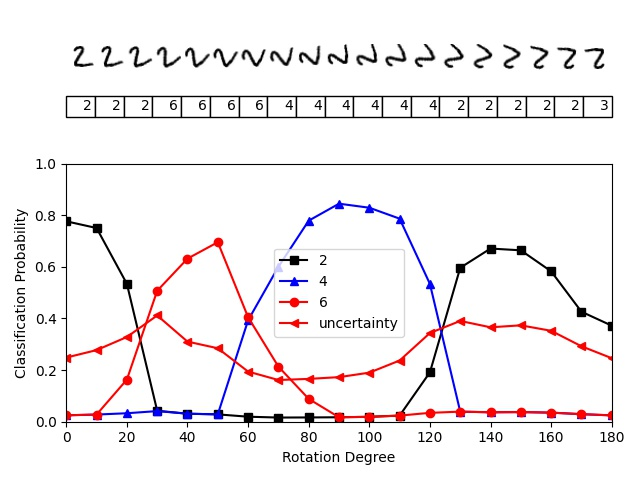
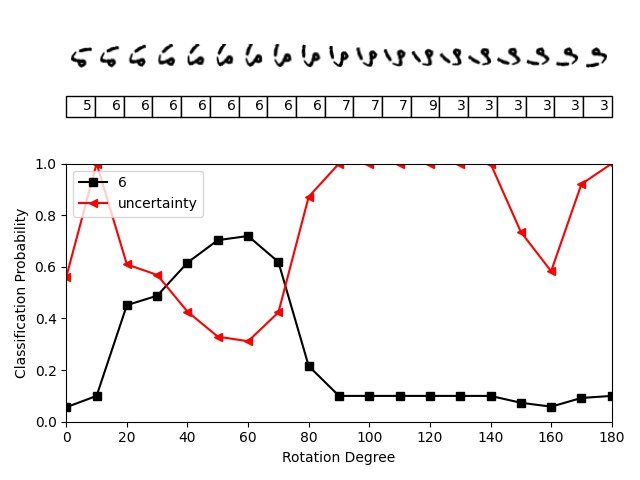
after 10 epocs

diff --git a/main.py b/main.py
@@ -14,6 +14,7 @@ from PIL import Image
 
 from helpers import get_device, rotate_img, one_hot_embedding
 from data import dataloaders, digit_one
+from data import digit_zero, digit_one, digit_two, digit_three, digit_four, digit_five, digit_six, digit_seven, digit_eight, digit_nine
 from train import train_model
 from test import rotating_image_classification, test_single_image
 from test import zoom_image_classification, test_plt_saving
@@ -146,13 +147,15 @@ def main():
 
         img = Image.open("./data/one.jpg").convert('L')
 
-        test_single_image(model, img, uncertainty=use_uncertainty)
+        #test_single_image(model, img, uncertainty=use_uncertainty)
         
-        filename = "./results/zoom_uncertainty_mse.jpg"
-        zoom_image_classification(
-            model, digit_one, filename, uncertainty=use_uncertainty)
+        for i, tensor_img in enumerate([digit_zero, digit_one, digit_two, digit_three, digit_four, digit_five, digit_six, digit_seven, digit_eight, digit_nine]):
+            filename = "./results/zoom_uncertainty_mse_digit_"+str(i)+".jpg"
+            zoom_image_classification(
+                model, tensor_img, filename, uncertainty=use_uncertainty)
+        
 
-        test_plt_saving()
+        #test_plt_saving()
 
 
 

diff --git a/test.py b/test.py
@@ -228,7 +228,7 @@ def zoom_image_classification(model, img, filename, uncertainty=False, threshold
        
     labels = np.arange(10)[scores[0].astype(bool)]
     lp = np.array(lp)[:, labels]
-    c = ["black", "blue", "red", "brown", "purple", "cyan"]
+    c = ["blue", "red", "brown", "purple", "cyan"]
     marker = ["s", "^", "o"]*2
     labels = labels.tolist()
     fig = plt.figure(figsize=[5, 5])
@@ -239,7 +239,7 @@ def zoom_image_classification(model, img, filename, uncertainty=False, threshold
 
     if uncertainty:
         labels += ["uncertainty"]
-        axs[2].plot(ldeg, lu, marker="<", c="red")
+        axs[2].plot(ldeg, lu, marker="<", c="black")
 
    
 
@@ -250,11 +250,11 @@ def zoom_image_classification(model, img, filename, uncertainty=False, threshold
 
     empty_lst = []
     empty_lst.append(classifications)
-    axs[1].table(cellText=empty_lst, bbox=[0, 1.2, 1, 1])
+    axs[1].table(cellText=empty_lst, bbox=[0, 1, 1, 1])
     axs[1].axis("off")
 
     axs[2].legend(labels)
-    axs[2].set_xlim([0, 28])
+    axs[2].set_xlim([5, 28])
     axs[2].set_ylim([0, 1])
     axs[2].set_xlabel("Rotation Degree")
     axs[2].set_ylabel("Classification Probability")

diff --git a/data.py b/data.py
@@ -26,4 +26,16 @@ dataloaders = {
     "val": dataloader_val,
 }
 
-digit_one, _ = data_val[1]
+
+digit_zero, _ = data_val[7]
+digit_one, _ = data_val[8]
+digit_two, _ = data_val[1]
+digit_three, _ = data_val[2]
+digit_four, _ = data_val[3]
+digit_five, _ = data_val[4]
+digit_six, _ = data_val[5]
+data_seven, _ = data_va[0]
+digit_eight, _ = data_val[6]
+digit_nine, _ = data_val[7]
+
+
